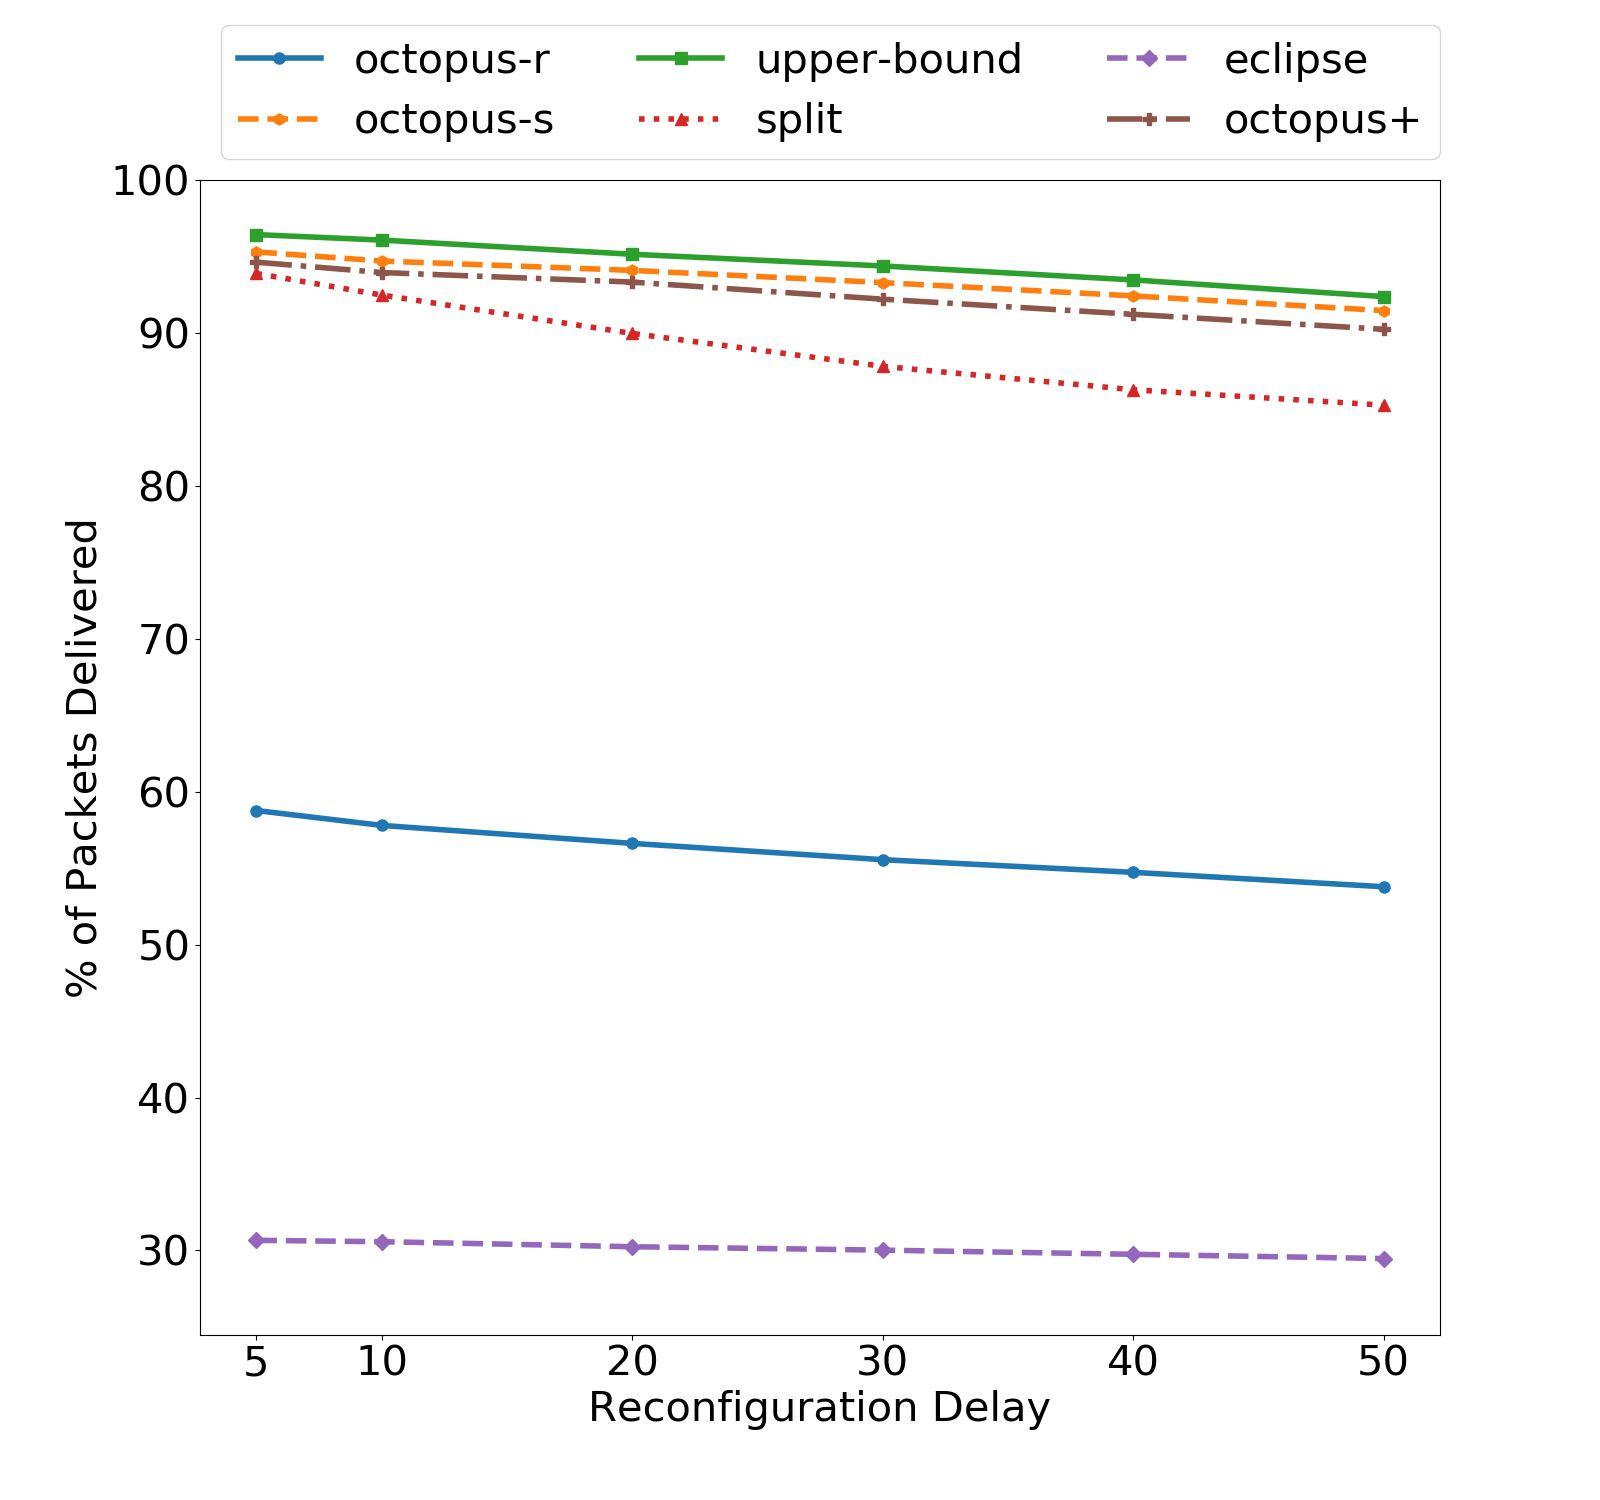
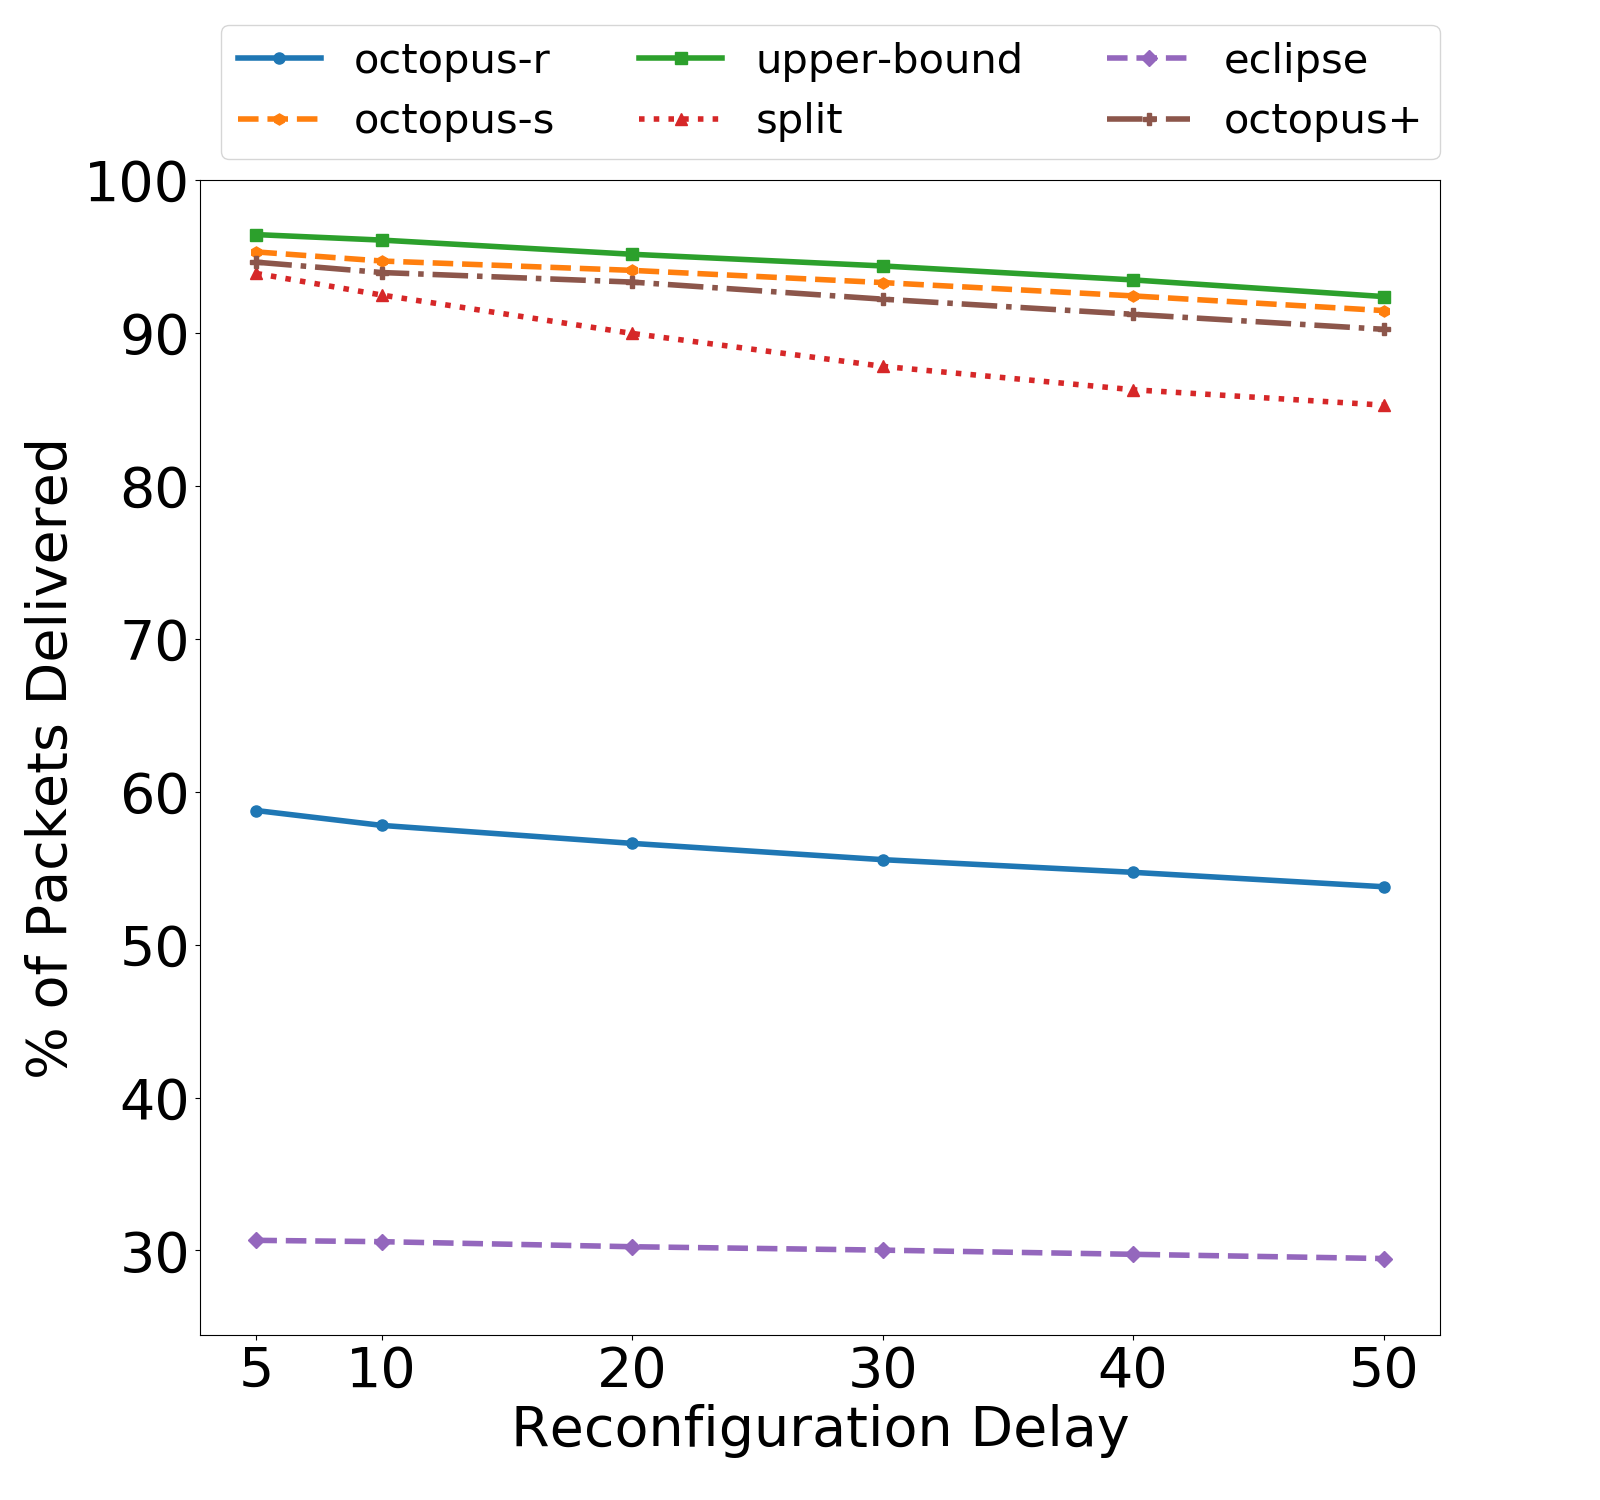
minor update

diff --git a/table.py b/table.py
@@ -27,7 +27,7 @@ def plot_line(table, method, filename=None, x_label=None, y_label=None, legend=N
 	'''
 	markers    = ['o', 'h', 's', '^', 'D', 'P']     # markers
 	linestyles = ['-', '--', '-', ':', '--', '-.']  # line styles
-	plt.rcParams['font.size'] = 30
+	plt.rcParams['font.size'] = 40
 	fig, ax = plt.subplots(figsize=(16, 15))
 	X  = [row[0] for row in table]
 	num = len(table[0]) - 1                         # number of methods
@@ -42,7 +42,7 @@ def plot_line(table, method, filename=None, x_label=None, y_label=None, legend=N
 	y_min = np.min(np.min(table, 0)[1:]) - 5
 	y_max = 100
 	plt.ylim([y_min, y_max])
-	plt.legend(bbox_to_anchor=(0., 1.), loc='lower left', ncol=3)
+	plt.legend(bbox_to_anchor=(0., 1.), loc='lower left', ncol=3, fontsize=30)
 
 	if x_label:
 		ax.set_xlabel(x_label)
